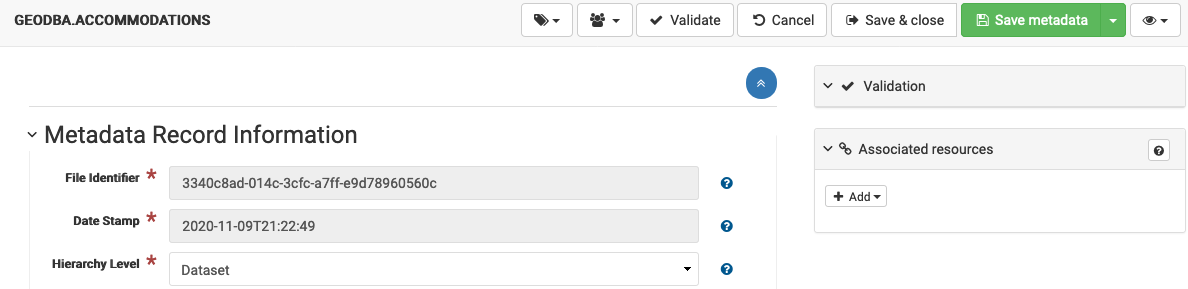
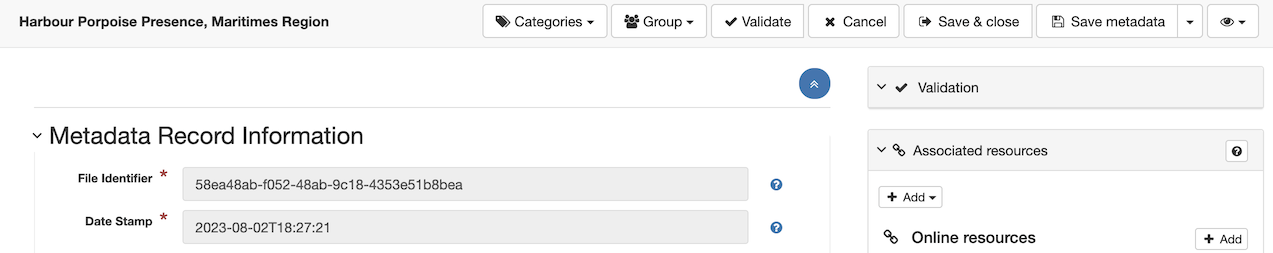
Update screen snaps for edit documentation

diff --git a/docs/editor/edit/index.md b/docs/editor/edit/index.md
@@ -2,10 +2,22 @@
 
 ## Edit record
 
-1.  There are several ways to open the record editor when viewing a record:
+1.  Use search to locate `Harbour Porpoise Presence, Maritimes Region ` record.
+    
+    When viewing a record with edit privileges additional actions are available.
+    
+    * **Edit**
+    * **Delete**
+    * **Managae record**
+
+    ![](img/record_edit_toolbar.png)
+    *Record view with edit privileges*
+
+2.  Use the **Edit** button to open the record editor.
 
     ![](img/record_view_edit.png)
     *Record view edit*
+    
 
 2.  The record editor is started using the **Basic view**, showing the document title,
     current editor status, and a toolbar of editor actions.
